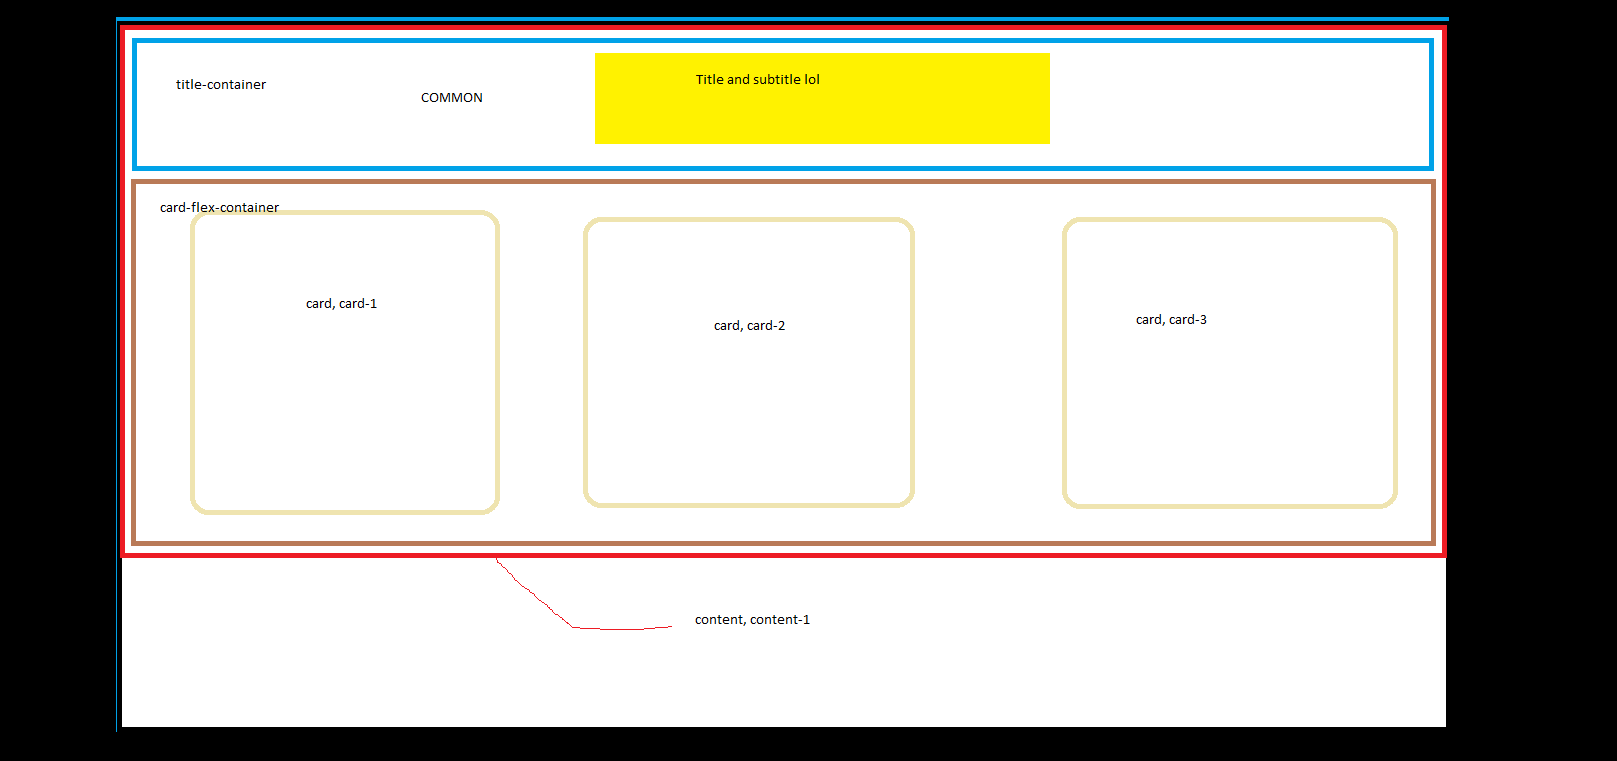
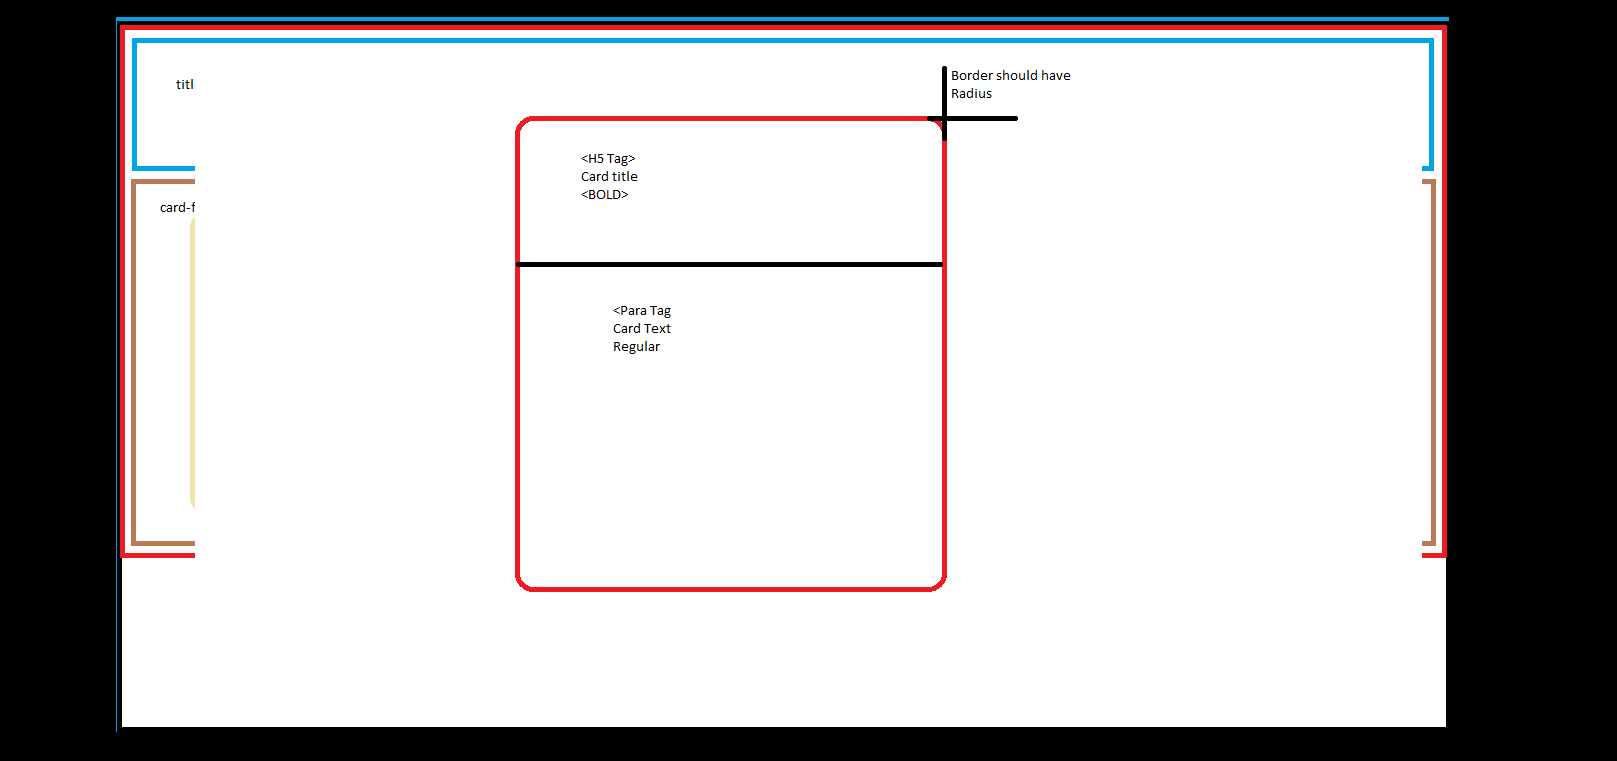
First set of Cards added.

diff --git a/index.html b/index.html
@@ -53,9 +53,30 @@
                 <!-- Card Container - Common -->
                 <div class="card-flex-container">
                     <!-- 3 cards - common -->
-                    <div class="card">Some Content in Card</div>
-                    <div class="card">Some Content in Card</div>
-                    <div class="card">Some Content in Card</div>
+                    <div class="card">
+                        <h5 class="card-title">
+                            Intermediate
+                        </h5>
+                        <p class="card-text">
+                            Lorem ipsum dolor sit amet consectetur adipisicing elit. Asperiores quaerat repellendus quo, dolorum quam vel molestiae cupiditate veritatis maxime aliquam recusandae nobis quae quidem eius explicabo nostrum assumenda eos numquam!
+                        </p>
+                    </div>
+                    <div class="card">
+                        <h5 class="card-title">
+                            Degree
+                        </h5>
+                        <p class="card-text">
+                            Lorem ipsum dolor sit amet consectetur adipisicing elit. Asperiores quaerat repellendus quo, dolorum quam vel molestiae cupiditate veritatis maxime aliquam recusandae nobis quae quidem eius explicabo nostrum assumenda eos numquam!
+                        </p>
+                    </div>
+                    <div class="card">
+                        <h5 class="card-title">
+                            Post Graduation
+                        </h5>
+                        <p class="card-text">
+                            Lorem ipsum dolor sit amet consectetur adipisicing elit. Asperiores quaerat repellendus quo, dolorum quam vel molestiae cupiditate veritatis maxime aliquam recusandae nobis quae quidem eius explicabo nostrum assumenda eos numquam!
+                        </p>
+                    </div>
                 </div>
             </div>
         </div>

diff --git a/index.css b/index.css
@@ -42,9 +42,26 @@ body {
 .card-flex-container {
   display: flex;
   justify-content: space-evenly;
-  padding: 1em 0 1em 0;
-  margin: 1em 0 1em 0;
+  padding: 4em;
+  margin: 4em;
   border: 4px solid #FFDF00;
+}
+
+.card {
+  background: #fff3f3;
+  margin: 2em;
+  border-radius: 0.5em;
+  text-align: center;
+}
+
+.card-title {
+  font-weight: bolder;
+  font-size: 1.5em;
+}
+
+.card-text {
+  padding: 1em;
+  margin: 1em;
 }
 
 .item {
